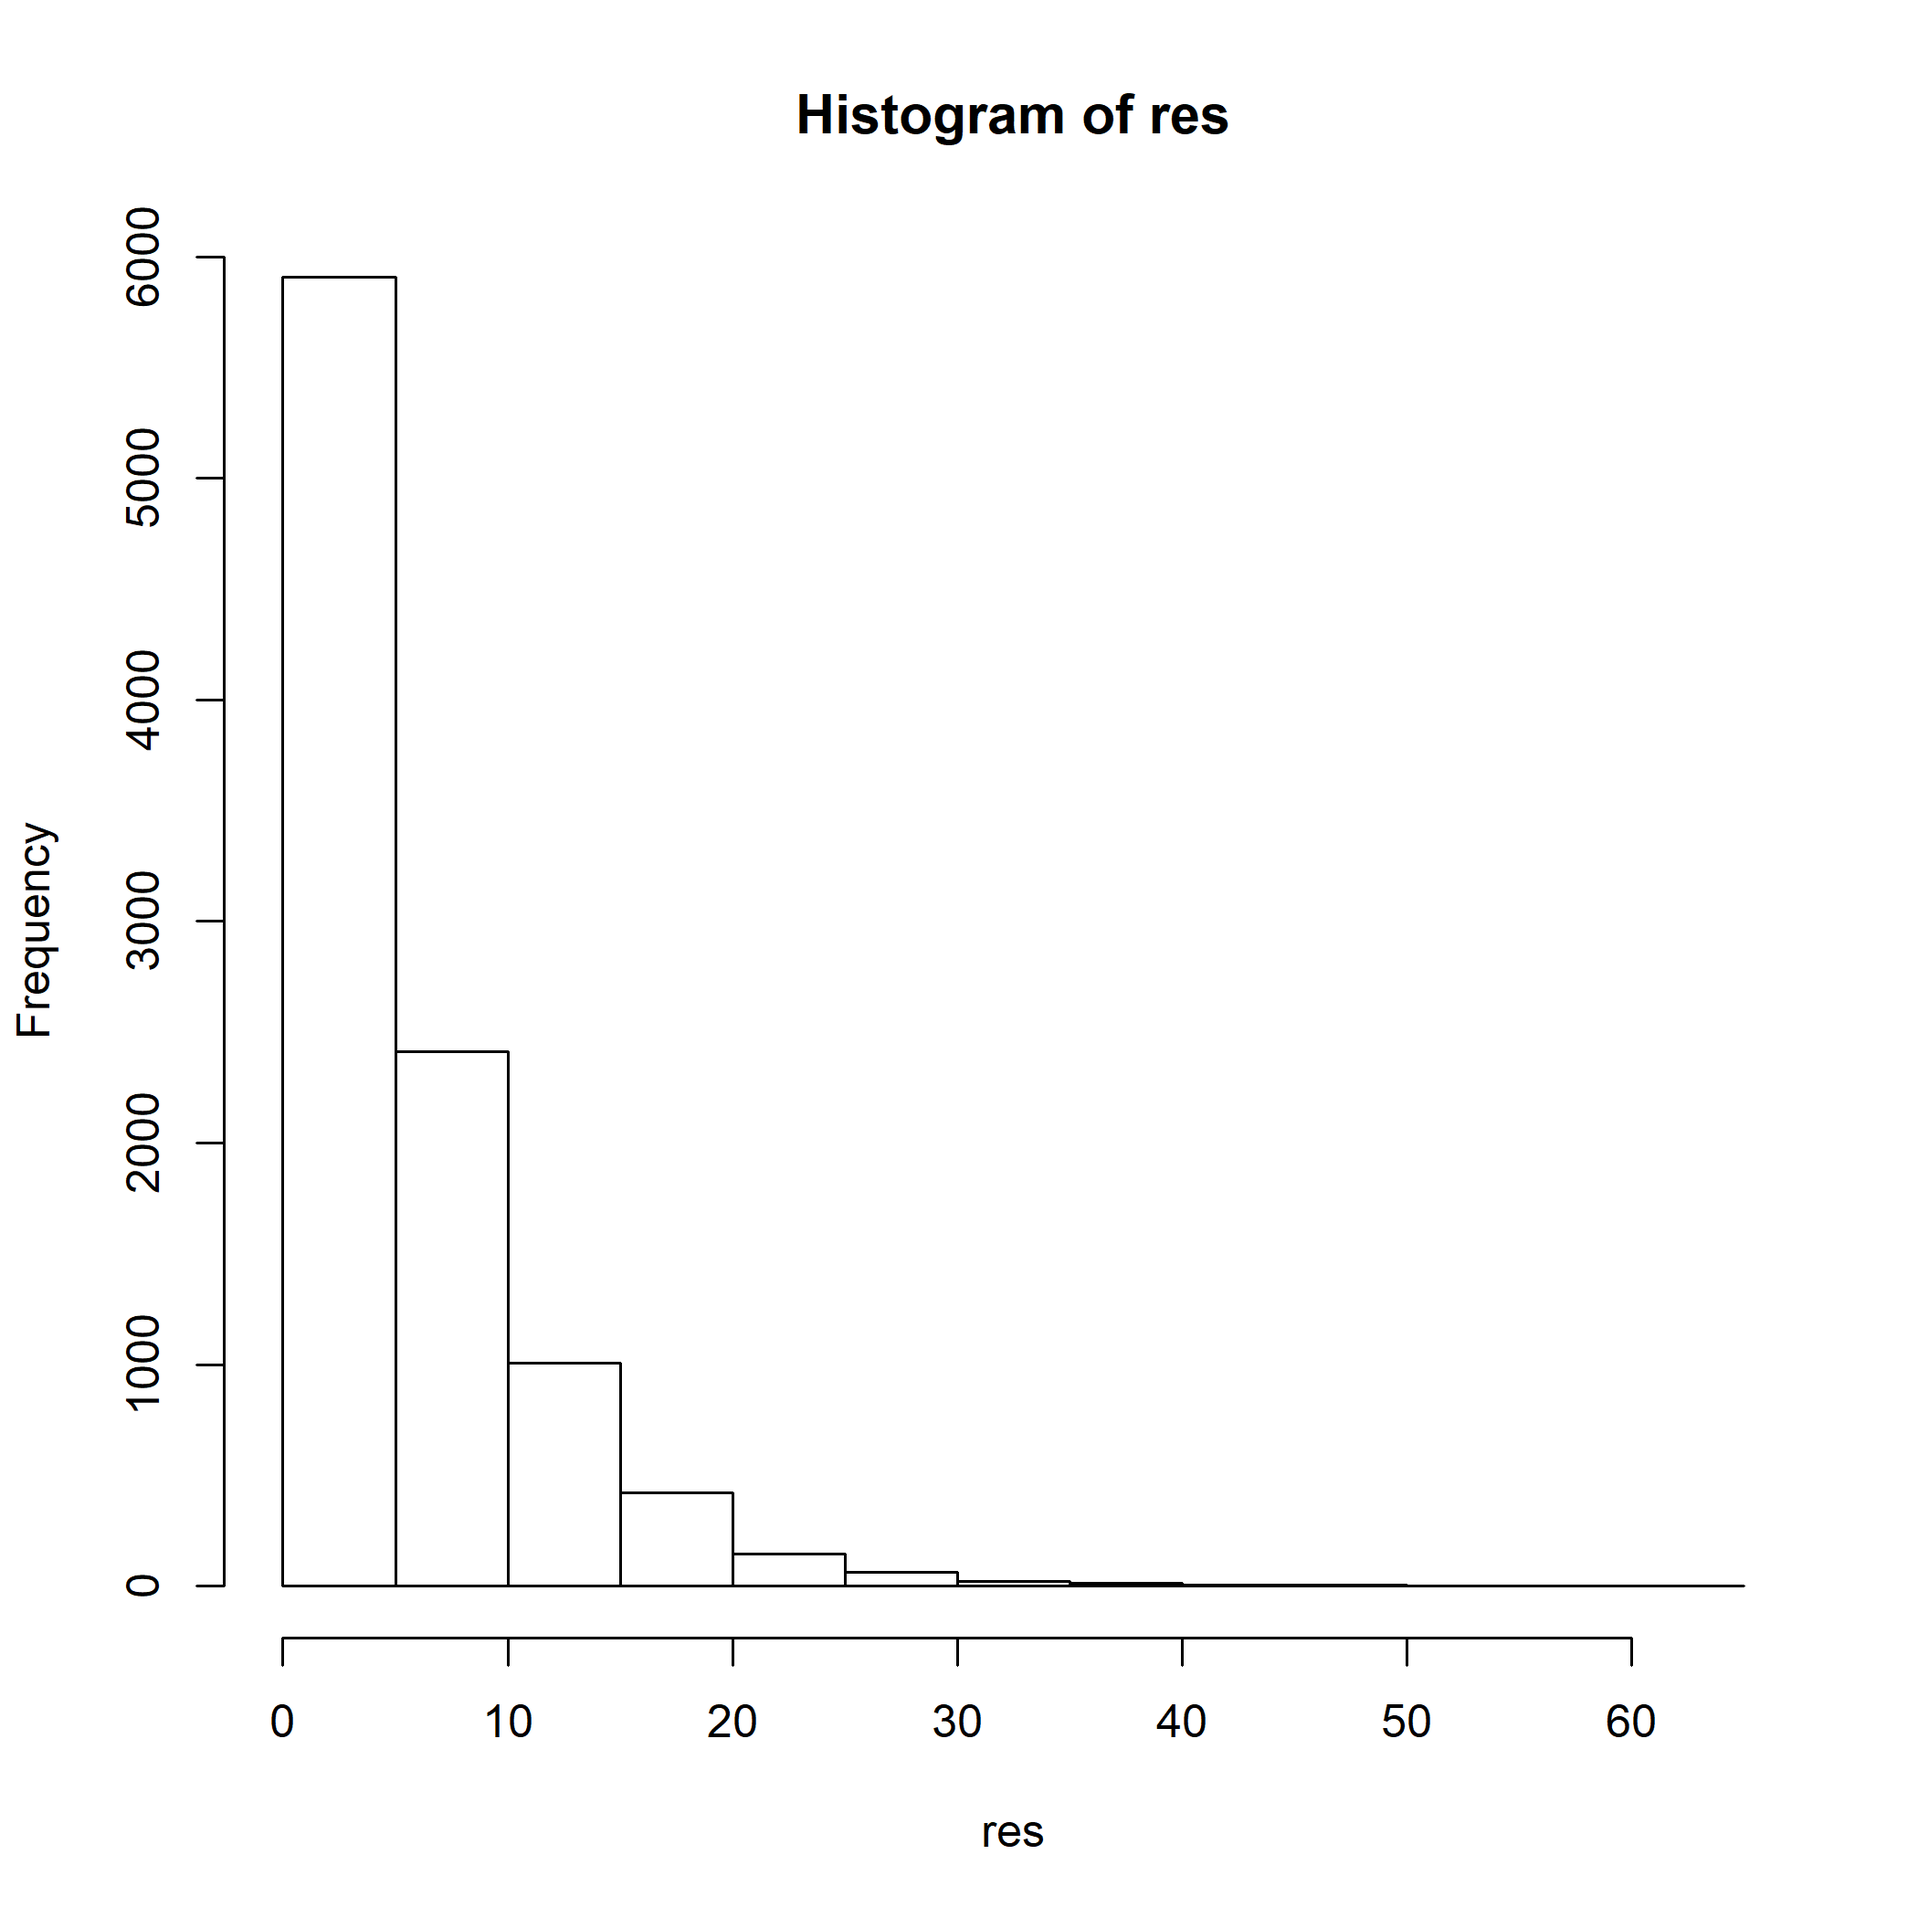
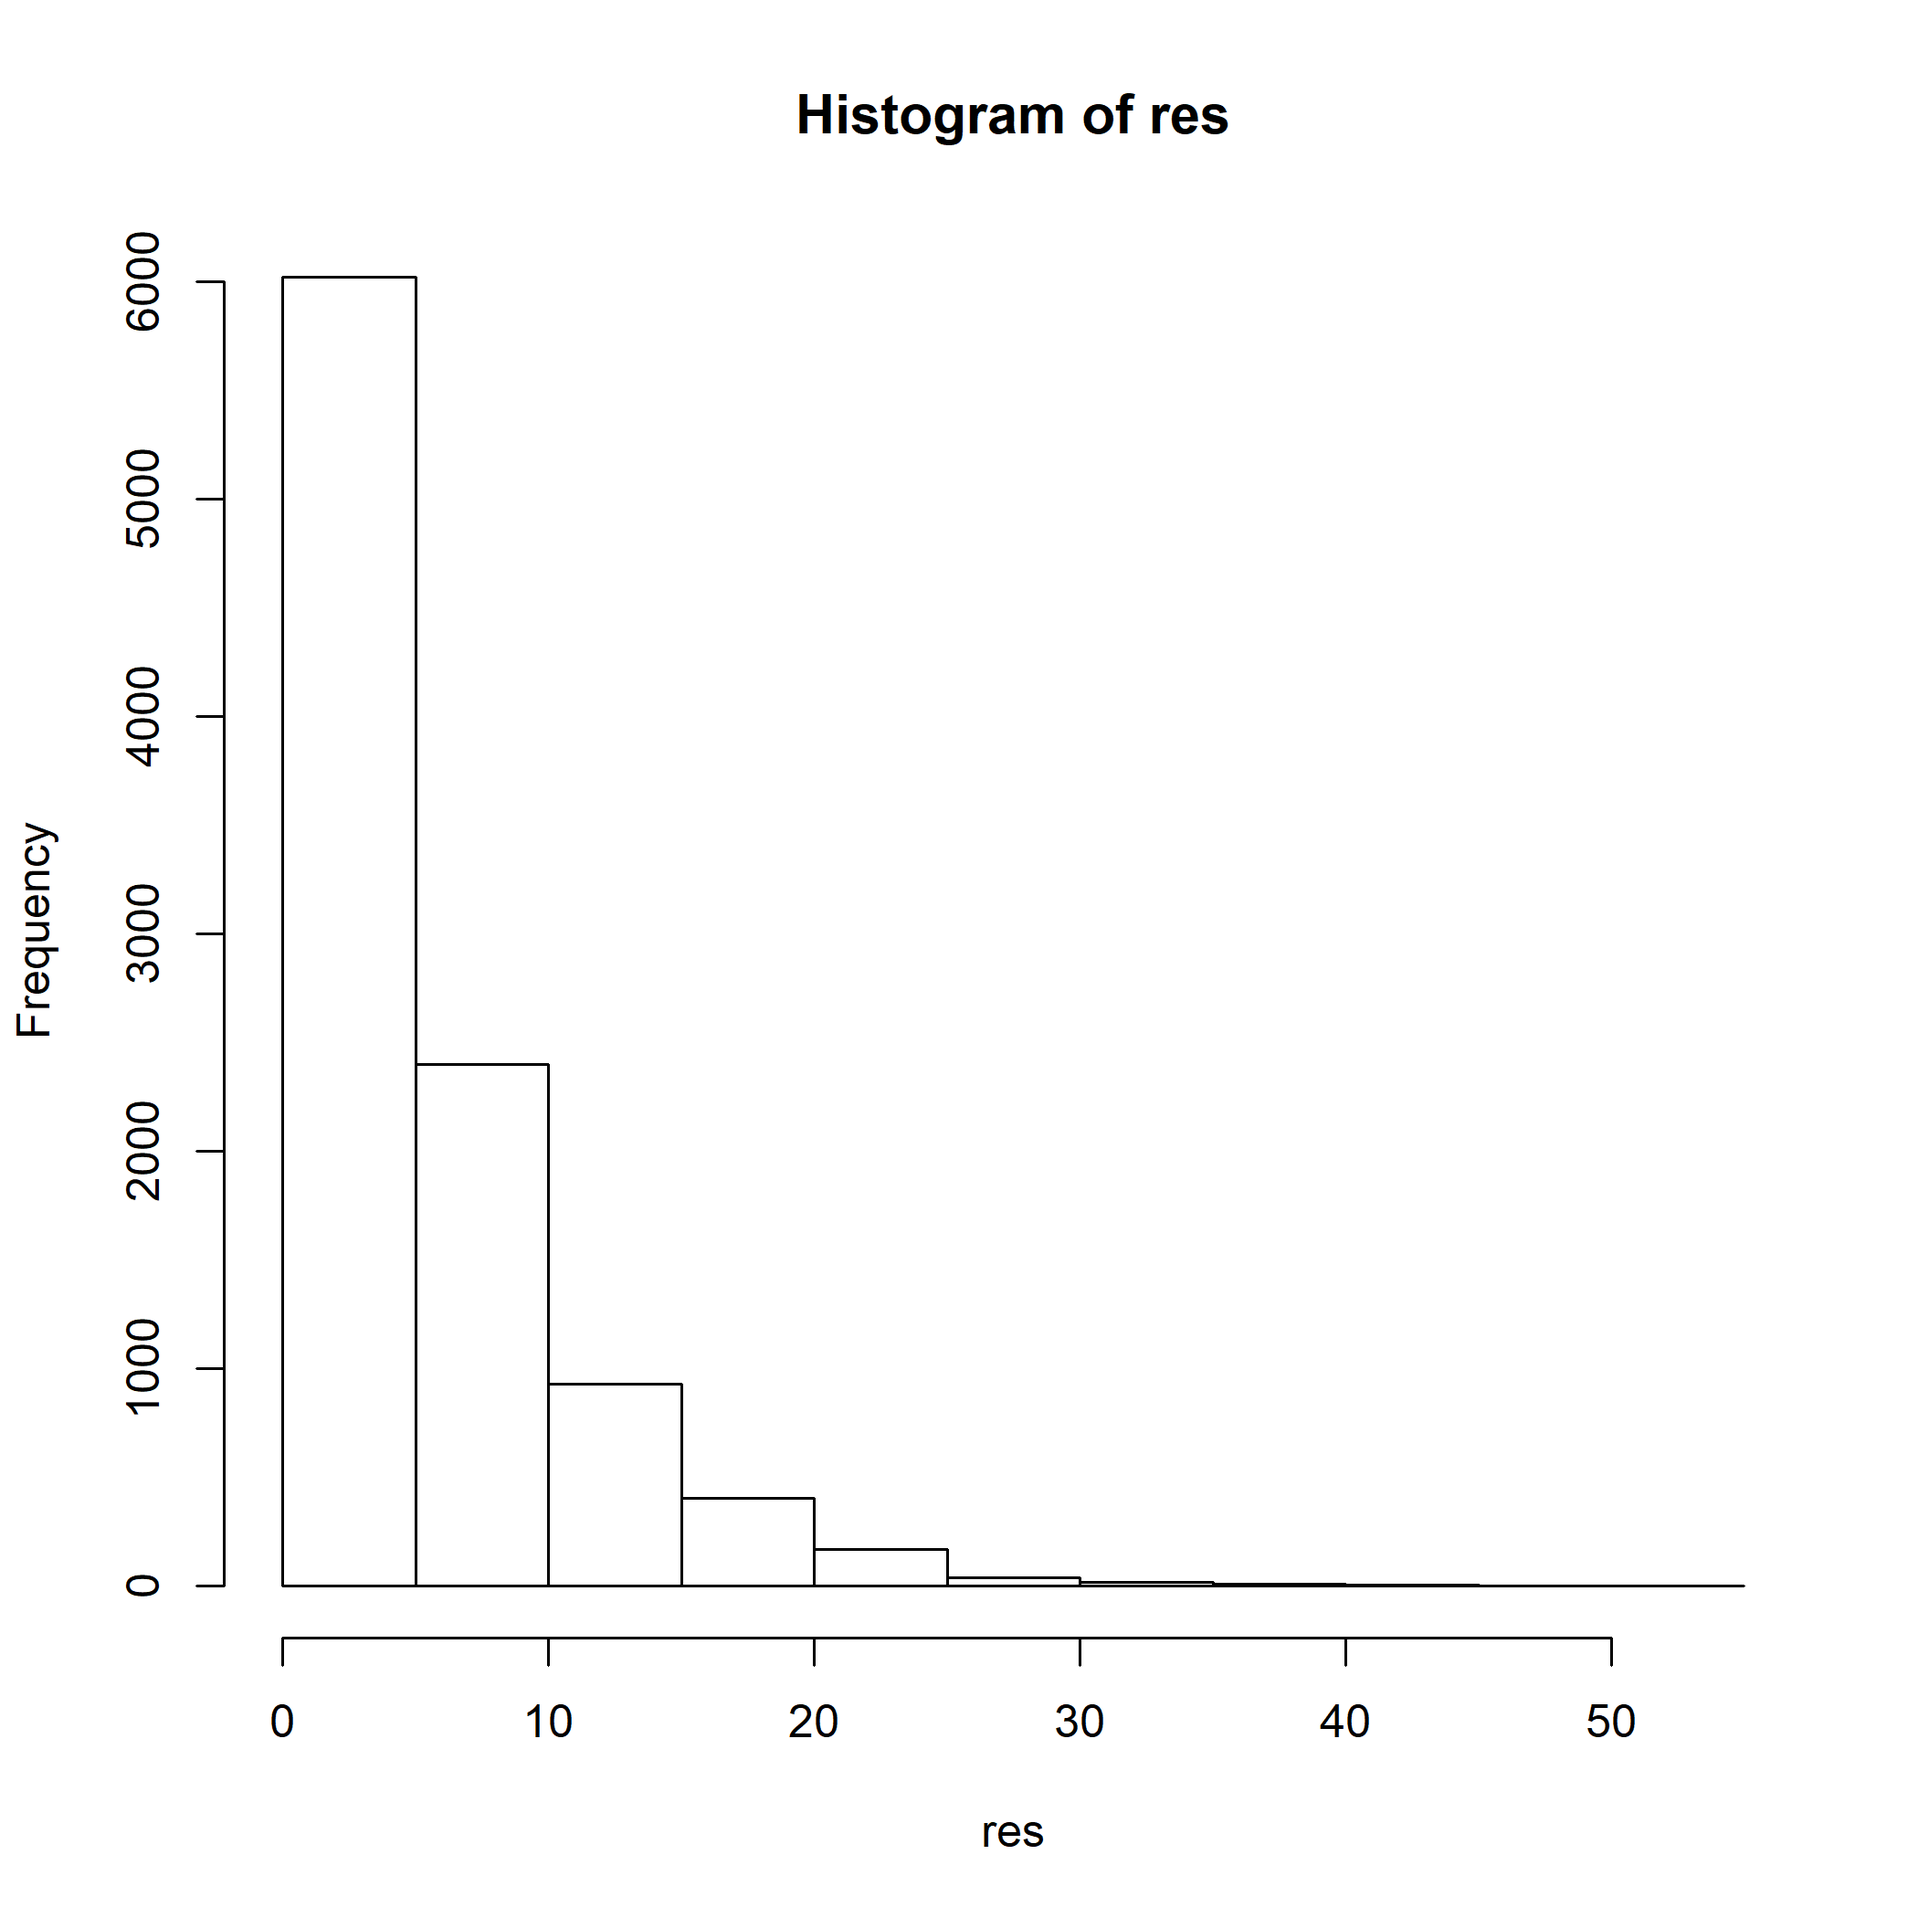
modif

diff --git a/Atelier_3/index.html b/Atelier_3/index.html
@@ -400,11 +400,11 @@ for(etape in 1:5) {
 ```
 
 ```
-## [1] 0.8875655
-## [1] 0.8872697
-## [1] 0.5198232
-## [1] 0.4229859
-## [1] 0.04483531
+## [1] 0.354362
+## [1] 0.6111241
+## [1] 0.2055441
+## [1] 0.01431293
+## [1] 0.003062085
 ```
 
 ---
@@ -591,10 +591,6 @@ while(combinaison != "pile-pile") {
 
 ```
 ## [1] "face-pile"
-## [1] "face-pile"
-## [1] "face-pile"
-## [1] "face-pile"
-## [1] "pile-face"
 ## [1] "pile-pile"
 ```
 
@@ -635,7 +631,7 @@ mean(res)
 ```
 
 ```
-## [1] 6.0903
+## [1] 5.9204
 ```
 
 ---
@@ -888,17 +884,17 @@ cbind(X,res)
 
 
 ```
-##       X                   res         
-##  [1,] "0.398478131042793" "plus grand"
-##  [2,] "0.607749803457409" "plus grand"
-##  [3,] "0.415178455412388" "plus grand"
-##  [4,] "0.407317390898243" "plus grand"
-##  [5,] "0.923796897754073" "plus grand"
-##  [6,] "0.393358971457928" "plus grand"
-##  [7,] "0.189431205159053" "plus petit"
-##  [8,] "0.820881718071178" "plus grand"
-##  [9,] "0.955734597053379" "plus grand"
-## [10,] "0.771251174621284" "plus grand"
+##       X                    res         
+##  [1,] "0.0704111903905869" "plus petit"
+##  [2,] "0.427507438696921"  "plus grand"
+##  [3,] "0.786601467523724"  "plus grand"
+##  [4,] "0.364772647153586"  "plus grand"
+##  [5,] "0.078767484985292"  "plus petit"
+##  [6,] "0.122245885897428"  "plus petit"
+##  [7,] "0.972078024176881"  "plus grand"
+##  [8,] "0.0853920916561037" "plus petit"
+##  [9,] "0.585514684440568"  "plus grand"
+## [10,] "0.112205123761669"  "plus petit"
 ```
 ]
 
@@ -952,17 +948,17 @@ cbind(X,res2)
 
 
 ```
-##       X                   res2 
-##  [1,] "0.398478131042793" "oui"
-##  [2,] "0.607749803457409" "non"
-##  [3,] "0.415178455412388" "oui"
-##  [4,] "0.407317390898243" "oui"
-##  [5,] "0.923796897754073" "non"
-##  [6,] "0.393358971457928" "oui"
-##  [7,] "0.189431205159053" "non"
-##  [8,] "0.820881718071178" "non"
-##  [9,] "0.955734597053379" "non"
-## [10,] "0.771251174621284" "non"
+##       X                    res2 
+##  [1,] "0.0704111903905869" "non"
+##  [2,] "0.427507438696921"  "oui"
+##  [3,] "0.786601467523724"  "non"
+##  [4,] "0.364772647153586"  "oui"
+##  [5,] "0.078767484985292"  "non"
+##  [6,] "0.122245885897428"  "non"
+##  [7,] "0.972078024176881"  "non"
+##  [8,] "0.0853920916561037" "non"
+##  [9,] "0.585514684440568"  "oui"
+## [10,] "0.112205123761669"  "non"
 ```
 ]
 
@@ -988,17 +984,17 @@ cbind(X,res2)
     
 
 ```
-##       X                   res2 
-##  [1,] "0.398478131042793" "oui"
-##  [2,] "0.607749803457409" "non"
-##  [3,] "0.415178455412388" "oui"
-##  [4,] "0.407317390898243" "oui"
-##  [5,] "0.923796897754073" "non"
-##  [6,] "0.393358971457928" "oui"
-##  [7,] "0.189431205159053" "non"
-##  [8,] "0.820881718071178" "non"
-##  [9,] "0.955734597053379" "non"
-## [10,] "0.771251174621284" "non"
+##       X                    res2 
+##  [1,] "0.0704111903905869" "non"
+##  [2,] "0.427507438696921"  "oui"
+##  [3,] "0.786601467523724"  "non"
+##  [4,] "0.364772647153586"  "oui"
+##  [5,] "0.078767484985292"  "non"
+##  [6,] "0.122245885897428"  "non"
+##  [7,] "0.972078024176881"  "non"
+##  [8,] "0.0853920916561037" "non"
+##  [9,] "0.585514684440568"  "oui"
+## [10,] "0.112205123761669"  "non"
 ```
 ]
 
@@ -1112,7 +1108,7 @@ tirage(3, cartes)
 ```
 
 ```
-## [1] "6 - carreau" "10 - coeur"  "8 - carreau"
+## [1] "3 - coeur"   "8 - carreau" "5 - trèfle"
 ```
 
 ---
@@ -1139,7 +1135,7 @@ res
 ```
 
 ```
-## [1] L T B H T O R
+## [1] S M B U R O R
 ## Levels: A B C D F G H I J K L M N O P Q R S T U V W X Y Z
 ```
 
@@ -1213,7 +1209,7 @@ rbinom(n = 10, size = 1, prob = 0.5)
 ```
 
 ```
-##  [1] 0 0 1 1 0 1 0 1 0 0
+##  [1] 0 0 0 0 0 0 1 1 0 1
 ```
 ]
 
@@ -1236,12 +1232,12 @@ rmultinom(n = 3, size = 1, prob = rep(1/6, 6))
 
 ```
 ##      [,1] [,2] [,3]
-## [1,]    0    1    1
-## [2,]    0    0    0
+## [1,]    0    0    0
+## [2,]    1    0    0
 ## [3,]    0    0    0
-## [4,]    1    0    0
+## [4,]    0    0    0
 ## [5,]    0    0    0
-## [6,]    0    0    0
+## [6,]    0    1    1
 ```
 ]
 
@@ -1741,7 +1737,7 @@ system.time(tri(x))
 
 ```
 ##    user  system elapsed 
-##    0.27    0.00    0.27
+##    0.27    0.00    0.26
 ```
 
 ---
@@ -1801,7 +1797,7 @@ system.time(f1(x))
 
 ```
 ##    user  system elapsed 
-##    0.06    0.00    0.06
+##    0.07    0.00    0.06
 ```
 
 ```r
@@ -1810,7 +1806,7 @@ system.time(f2(x))
 
 ```
 ##    user  system elapsed 
-##    0.02    0.00    0.01
+##    0.01    0.00    0.02
 ```
 ]
 
@@ -1827,7 +1823,7 @@ f1 &lt;- function(x) {
 	res &lt;- numeric(ncol(x))
 	for(j in 1:ncol(x)) {
 		for(i in 1:nrow(x)){
-			res[j] &lt;- res[j] + x[i,j]
+			res[x] &lt;- res[j] + x[i,j]
 		}
 	}
 }
@@ -1852,7 +1848,7 @@ system.time(f1(X))
 ##    user  system elapsed 
 ##       0       0       0 
 ##    user  system elapsed 
-##       0       0       0
+##    0.71    0.00    0.72
 ```
 ]
 
